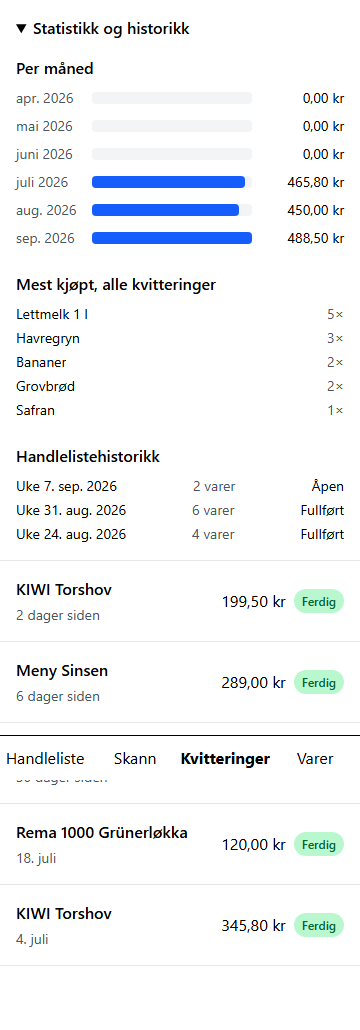
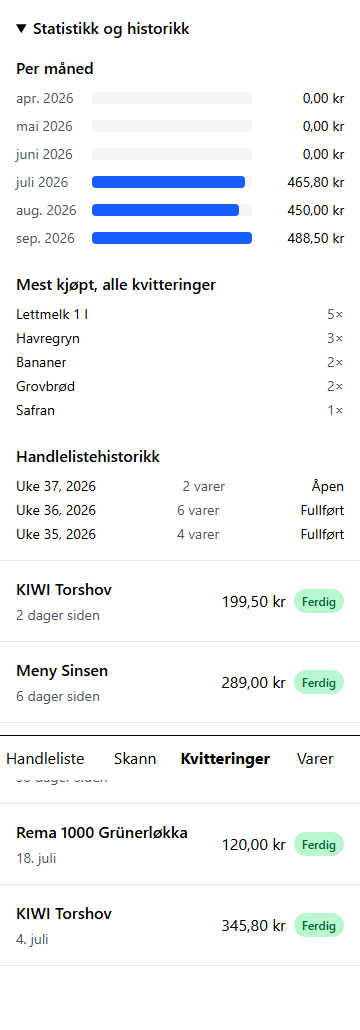
fix: label shopping-list history rows by week, not date (T23 F1)
"Uke 7. sep. 2026" read the row's weekStart as a date; a week is not
a date. Add formatWeek in src/client/lib/format.ts, turning
isoWeekKey's "2026-W35" into "Uke 35, 2026", and use it for the
history row label instead of formatDate. Updated the ReceiptsPage
rendering test and added a formatWeek unit test.

Claude-Session: https://claude.ai/code/session_01LbcodsQxsNDR6cS1v9zKWj

Changed region(s): [[0.1222, 0.466, 0.3667, 0.5282], [0.4889, 0.466, 0.6417, 0.5282]]

diff --git a/src/client/pages/ReceiptsPage.tsx b/src/client/pages/ReceiptsPage.tsx
@@ -8,7 +8,7 @@ import type {
 } from '../../shared/schemas.ts';
 import { formatOre } from '../../shared/money.ts';
 import { apiErrorMessage } from '../lib/errorMessage.ts';
-import { formatDate, formatMonth, formatRelativeDate } from '../lib/format.ts';
+import { formatMonth, formatRelativeDate, formatWeek } from '../lib/format.ts';
 import {
   useReceiptsList,
   useScanReceipt,
@@ -96,7 +96,7 @@ function ShoppingListHistorySection({ lists }: { lists: ShoppingListSummary[] })
       <ul className="flex flex-col gap-1">
         {lists.map((list) => (
           <li key={list.id} className="flex justify-between gap-3 text-sm">
-            <span>Uke {formatDate(list.weekStart)}</span>
+            <span>{formatWeek(list.weekStart)}</span>
             <span className="flex-shrink-0 text-gray-600">
               {list.itemCount} {list.itemCount === 1 ? 'vare' : 'varer'}
             </span>

diff --git a/src/client/lib/format.ts b/src/client/lib/format.ts
@@ -1,4 +1,4 @@
-import { diffDays, todayLocalIso } from '../../shared/dates.ts';
+import { diffDays, isoWeekKey, todayLocalIso } from '../../shared/dates.ts';
 
 export { formatOre } from '../../shared/money.ts';
 
@@ -39,6 +39,12 @@ export function formatRelativeDate(date: string, today: string = todayLocalIso()
 export function formatMonth(month: string): string {
   const [year, monthNumber] = month.split('-').map(Number);
   return MONTH_FORMATTER.format(new Date(Date.UTC(year!, monthNumber! - 1, 1)));
+}
+
+/** `formatWeek('2026-08-24')` → `Uke 35, 2026`, via `isoWeekKey`'s `2026-W35`. */
+export function formatWeek(weekStart: string): string {
+  const [isoYear, week] = isoWeekKey(weekStart).split('-W');
+  return `Uke ${Number(week)}, ${isoYear}`;
 }
 
 /** `formatQuantity(1.5, 'kg')` → `1,5 kg`; `formatQuantity(2, null)` → `2`. */

diff --git a/test/client/format.test.ts b/test/client/format.test.ts
@@ -1,5 +1,10 @@
 import { describe, expect, it } from 'vitest';
-import { formatDate, formatOre, formatRelativeDate } from '../../src/client/lib/format.ts';
+import {
+  formatDate,
+  formatOre,
+  formatRelativeDate,
+  formatWeek,
+} from '../../src/client/lib/format.ts';
 
 const NBSP = ' ';
 
@@ -25,6 +30,13 @@ describe('formatRelativeDate', () => {
 
   it('returns a short date without a year beyond 30 days', () => {
     expect(formatRelativeDate('2026-08-06', '2026-09-06')).toBe('6. aug.');
+  });
+});
+
+describe('formatWeek', () => {
+  it('labels a week start with its ISO week number and year, not a date (T23 F1)', () => {
+    expect(formatWeek('2026-08-24')).toBe('Uke 35, 2026');
+    expect(formatWeek('2026-09-07')).toBe('Uke 37, 2026');
   });
 });
 

diff --git a/test/client/ReceiptsPage.test.tsx b/test/client/ReceiptsPage.test.tsx
@@ -356,7 +356,7 @@ describe('ReceiptsPage — Statistikk og historikk', () => {
     expect(screen.getByText('Mest kjøpt, alle kvitteringer')).toBeInTheDocument();
     expect(screen.getByText('Lettmelk 1 l')).toBeInTheDocument();
     expect(screen.getByText('4×')).toBeInTheDocument();
-    expect(screen.getByText(/Uke/)).toBeInTheDocument();
+    expect(screen.getByText('Uke 35, 2026')).toBeInTheDocument();
     expect(screen.getByText('5 varer')).toBeInTheDocument();
     expect(screen.getByText('Fullført')).toBeInTheDocument();
   });
